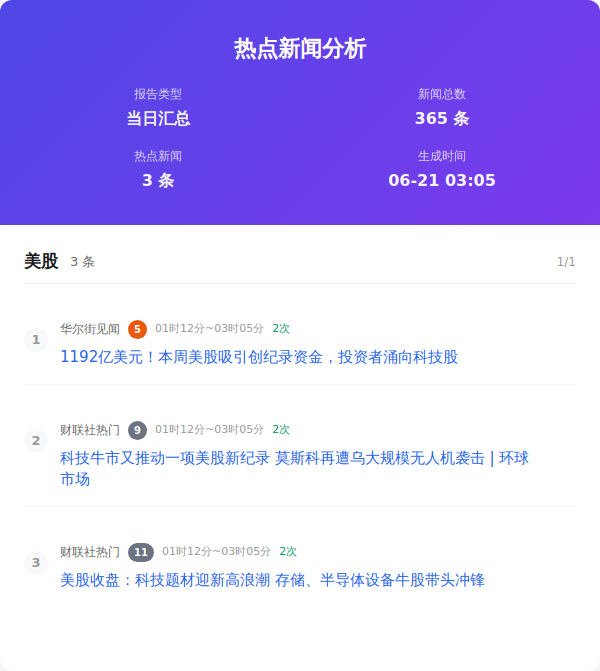
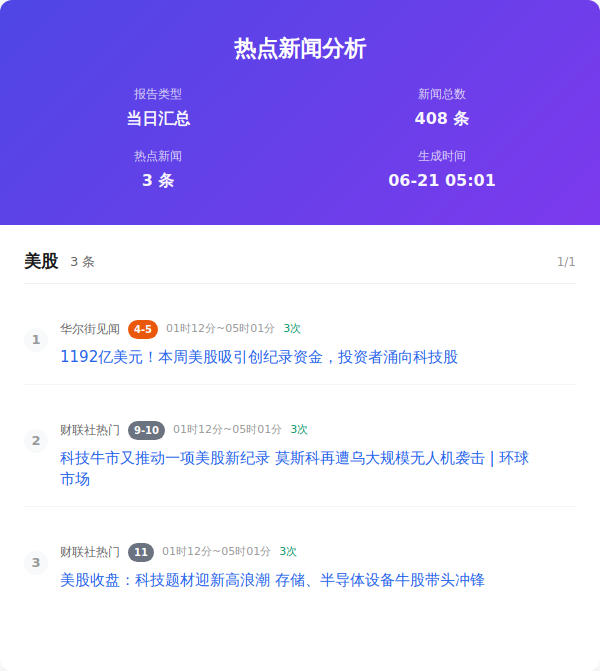
Auto update by GitHub Actions at Sun Jun 21 05:01:48 CST 2026

diff --git a/output/2026年06月21日/html/当日汇总.html b/output/2026年06月21日/html/当日汇总.html
@@ -357,7 +357,7 @@
                     </div>
                     <div class="info-item">
                         <span class="info-label">新闻总数</span>
-                        <span class="info-value">365 条</span>
+                        <span class="info-value">408 条</span>
                     </div>
                     <div class="info-item">
                         <span class="info-label">热点新闻</span>
@@ -365,7 +365,7 @@
                     </div>
                     <div class="info-item">
                         <span class="info-label">生成时间</span>
-                        <span class="info-value">06-21 03:05</span>
+                        <span class="info-value">06-21 05:01</span>
                     </div>
                 </div>
             </div>
@@ -383,7 +383,7 @@
                         <div class="news-number">1</div>
                         <div class="news-content">
                             <div class="news-header">
-                                <span class="source-name">华尔街见闻</span><span class="rank-num high">5</span><span class="time-info">01时12分~03时05分</span><span class="count-info">2次</span>
+                                <span class="source-name">华尔街见闻</span><span class="rank-num high">4-5</span><span class="time-info">01时12分~05时01分</span><span class="count-info">3次</span>
                             </div>
                             <div class="news-title"><a href="https://wallstreetcn.com/articles/3775107" target="_blank" class="news-link">1192亿美元！本周美股吸引创纪录资金，投资者涌向科技股</a>
                             </div>
@@ -393,7 +393,7 @@
                         <div class="news-number">2</div>
                         <div class="news-content">
                             <div class="news-header">
-                                <span class="source-name">财联社热门</span><span class="rank-num ">9</span><span class="time-info">01时12分~03时05分</span><span class="count-info">2次</span>
+                                <span class="source-name">财联社热门</span><span class="rank-num ">9-10</span><span class="time-info">01时12分~05时01分</span><span class="count-info">3次</span>
                             </div>
                             <div class="news-title"><a href="https://www.cls.cn/detail/2404523" target="_blank" class="news-link">科技牛市又推动一项美股新纪录 莫斯科再遭乌大规模无人机袭击 | 环球市场</a>
                             </div>
@@ -403,7 +403,7 @@
                         <div class="news-number">3</div>
                         <div class="news-content">
                             <div class="news-header">
-                                <span class="source-name">财联社热门</span><span class="rank-num ">11</span><span class="time-info">01时12分~03时05分</span><span class="count-info">2次</span>
+                                <span class="source-name">财联社热门</span><span class="rank-num ">11</span><span class="time-info">01时12分~05时01分</span><span class="count-info">3次</span>
                             </div>
                             <div class="news-title"><a href="https://www.cls.cn/detail/2404196" target="_blank" class="news-link">美股收盘：科技题材迎新高浪潮 存储、半导体设备牛股带头冲锋</a>
                             </div>